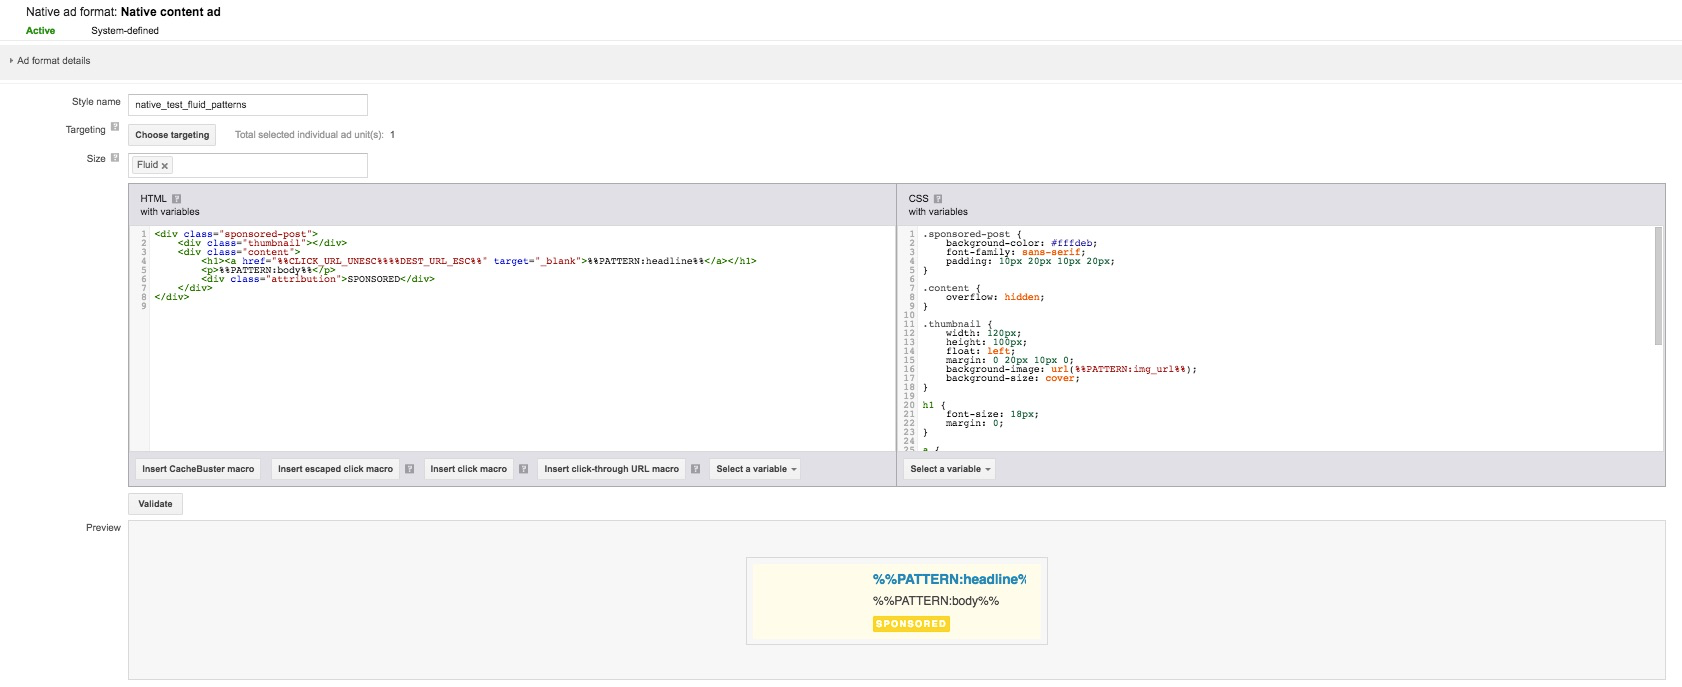
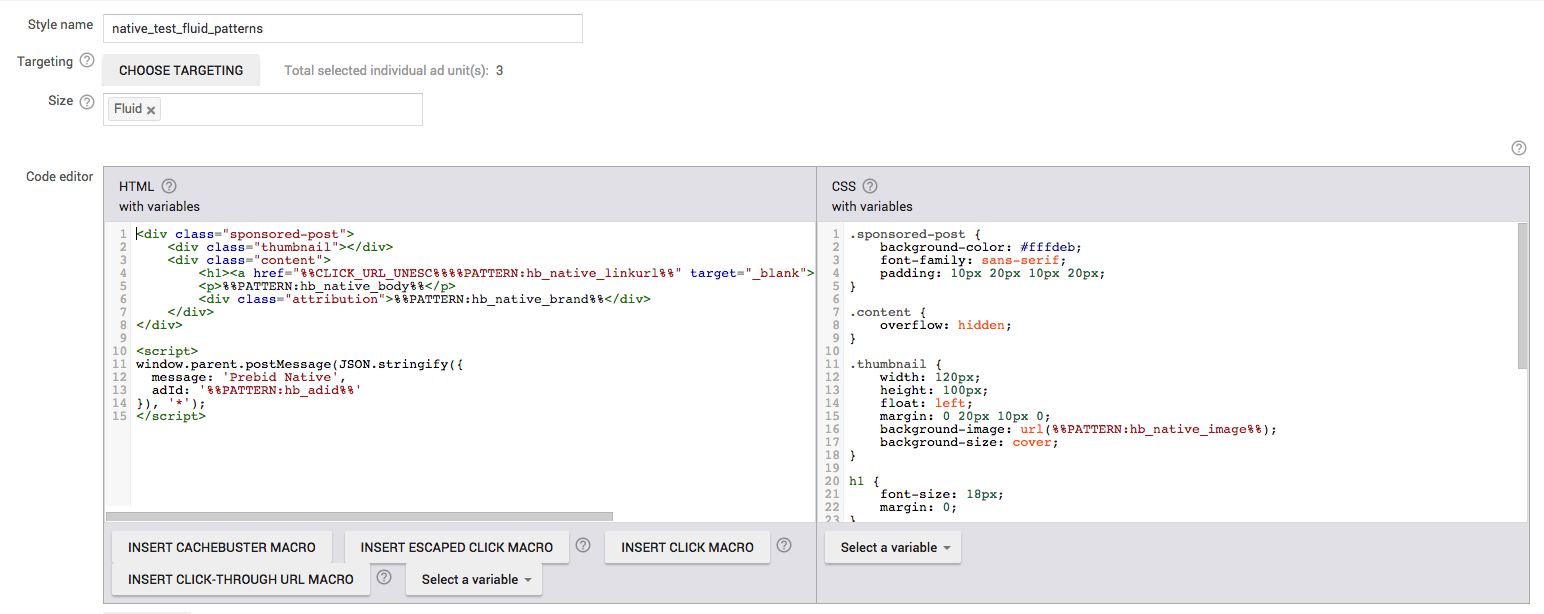
Add imp tracking code to native ad template (#294)

Changed region(s): [[0.0, 0.0, 0.9948, 0.9902], [0.9637, 0.4951, 0.9948, 0.6189]]

diff --git a/adops/setting-up-prebid-native-in-dfp.md b/adops/setting-up-prebid-native-in-dfp.md
@@ -43,21 +43,32 @@ In this example, we're targeting `"prebid_native_adunit"`, so the *Size* is set 
 
 Add the HTML and CSS that define your native ad template. Note that `%%PATTERN%%` macros can be included in either field, and the HTML can contain JavaScript.  For more information, see the [DFP native styles docs](https://support.google.com/dfp_premium/answer/6366914).
 
-{: .pb-img.pb-md-img :}
+{: .alert.alert-danger :}
+**Native impression tracking requirements**  
+You must include the `postMessage` code snippet as shown in the screenshot and example code below so impression trackers will fire.
+
+{: .pb-img.pb-lg-img :}
 ![]({{site.github.url}}/assets/images/ad-ops/dfp-native/native-content-ad.png)
 
 Example HTML and CSS:
 
 {% highlight html %}
 
-    <div class="sponsored-post">
-        <div class="thumbnail"></div>
-        <div class="content">
-            <h1><a href="%%CLICK_URL_UNESC%%%%PATTERN:hb_native_linkurl%%" target="_blank">%%PATTERN:hb_native_title%%</a></h1>
-            <p>%%PATTERN:hb_native_body%%</p>
-            <div class="attribution">%%PATTERN:hb_native_brand%%</div>
-        </div>
-    </div>
+<div class="sponsored-post">
+  <div class="thumbnail"></div>
+  <div class="content">
+    <h1><a href="%%CLICK_URL_UNESC%%%%PATTERN:hb_native_linkurl%%" target="_blank">%%PATTERN:hb_native_title%%</a></h1>
+    <p>%%PATTERN:hb_native_body%%</p>
+    <div class="attribution">%%PATTERN:hb_native_brand%%</div>
+  </div>
+</div>
+
+<script>
+window.parent.postMessage(JSON.stringify({
+  message: 'Prebid Native',
+  adId: '%%PATTERN:hb_adid%%'
+}), '*');
+</script>
 
 {% endhighlight %}
 
